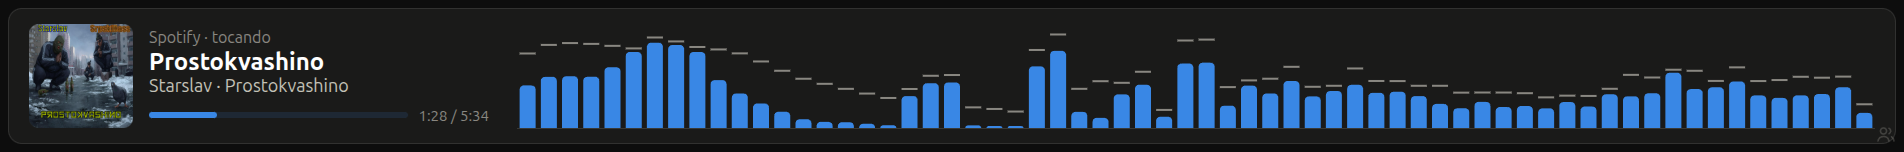
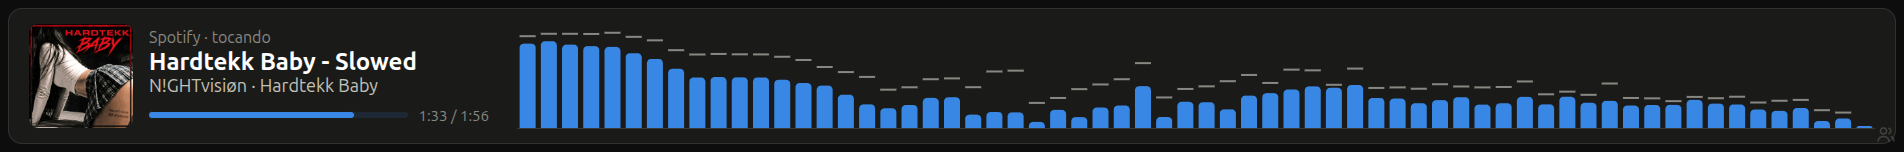
Nomes internos viram toca-do-texugo e prints novos com música tocando
- Config em ~/.config/toca-do-texugo, serviço toca-do-texugo.service,
  atalhos toca-do-texugo.desktop e classe da janela toca-do-texugo
- O texugo não sobe mais na fileira de cima: lá ele cobria o cabeçalho
- Print do README e faixa do visualizador com uma música tocando

diff --git a/index.html b/index.html
@@ -969,7 +969,8 @@ const clamp = (v, a, b) => Math.min(b, Math.max(a, v));
 const M = { x: 300, y: -MH, el: null, dir: 1, state: "fall", until: 0, jump: null, lastBeat: 0, nextFx: 0, blinkUntil: 0, nextBlink: 0, nextSweat: 0 };
 
 function platforms() {
-  const sel = { "page-dash": "#page-dash .card", "page-redes": "#page-redes .card", "page-atalhos": "#page-atalhos .shortcuts button" }[PAGES[page]];
+  // Fileira de cima fica de fora: em cima dela o texugo cobre o cabecalho (volume, carga, uptime)
+  const sel = { "page-dash": "#page-dash .card:not(.tile)", "page-redes": "#page-redes .card", "page-atalhos": "#page-atalhos .shortcuts button" }[PAGES[page]];
   return [...document.querySelectorAll(sel)].filter(el => el.getBoundingClientRect().width > MW + 24);
 }
 function spot(el) {

diff --git a/server.py b/server.py
@@ -1,11 +1,11 @@
 #!/usr/bin/env python3
-"""Painel do PC: servidor local (127.0.0.1) com metricas do sistema e atalhos.
+"""Toca do Texugo: servidor local (127.0.0.1) com metricas do sistema e atalhos.
 
 Metricas: /api/stats (JSON, atualizado 1x/s por uma thread de coleta).
 OneDrive: campo "onedrive" do /api/stats (ver onedrive.py).
 Redes:    /api/redes, contadores do YouTube/Twitch/... (ver redes.py).
 Audio:    /api/audio, PCM s16le mono 24 kHz do monitor da saida padrao (o navegador faz a FFT).
-Atalhos:  POST /api/run/<id>, somente ids definidos em ~/.config/pc-dashboard/atalhos.json.
+Atalhos:  POST /api/run/<id>, somente ids definidos em ~/.config/toca-do-texugo/atalhos.json.
 """
 import json
 import os
@@ -25,8 +25,8 @@ from redes import Redes
 
 HOST, PORT = "127.0.0.1", 8787
 BASE = Path(__file__).resolve().parent
-CONFIG = Path.home() / ".config/pc-dashboard/atalhos.json"
-SETTINGS_FILE = Path.home() / ".config/pc-dashboard/config.json"  # coisas da maquina (ver config.exemplo.json)
+CONFIG = Path.home() / ".config/toca-do-texugo/atalhos.json"
+SETTINGS_FILE = Path.home() / ".config/toca-do-texugo/config.json"  # coisas da maquina (ver config.exemplo.json)
 ALLOWED_HOSTS = {f"127.0.0.1:{PORT}", f"localhost:{PORT}"}
 AUDIO_RATE = 24000
 MPRIS = "org.mpris.MediaPlayer2"

diff --git a/redes.py b/redes.py
@@ -1,7 +1,7 @@
 """Contadores das redes sociais pro painel.
 
-Credenciais em ~/.config/pc-dashboard/redes.json (fora do git; relido quando muda).
-Historico diario em ~/.config/pc-dashboard/redes-historico.json (pra "+N hoje" e a tendencia de 30 dias).
+Credenciais em ~/.config/toca-do-texugo/redes.json (fora do git; relido quando muda).
+Historico diario em ~/.config/toca-do-texugo/redes-historico.json (pra "+N hoje" e a tendencia de 30 dias).
 """
 import datetime
 import hashlib
@@ -14,9 +14,9 @@ import urllib.parse
 import urllib.request
 from pathlib import Path
 
-CONF = Path.home() / ".config/pc-dashboard/redes.json"
-HIST = Path.home() / ".config/pc-dashboard/redes-historico.json"
-TOKENS = Path.home() / ".config/pc-dashboard/redes-tokens.json"  # tokens renovados automaticamente
+CONF = Path.home() / ".config/toca-do-texugo/redes.json"
+HIST = Path.home() / ".config/toca-do-texugo/redes-historico.json"
+TOKENS = Path.home() / ".config/toca-do-texugo/redes-tokens.json"  # tokens renovados automaticamente
 HIST_DAYS = 30
 TRACKED = ("followers", "views", "likes")
 

diff --git a/onedrive.py b/onedrive.py
@@ -13,7 +13,7 @@ import time
 from pathlib import Path
 
 CONFIG = Path.home() / ".config/onedrive/config"
-QUOTA_CACHE = Path.home() / ".config/pc-dashboard/onedrive-cota.json"  # sobrevive a reinicios do painel
+QUOTA_CACHE = Path.home() / ".config/toca-do-texugo/onedrive-cota.json"  # sobrevive a reinicios do painel
 QUOTA_EVERY = 3600  # --display-quota reescreve o token do cliente: pouca frequencia
 LOCAL_EVERY = 600
 

diff --git a/README.md b/README.md
@@ -36,8 +36,8 @@ Dashboard em tela cheia que roda num **monitor virtual** do Linux e é transmiti
 | Instagram | Instagram API com login do Instagram | seguidores, likes e comentários somados, posts, último post |
 
 **Texugo** 🦡
-- Anda por cima dos cards e pula de um pro outro, inclusive quando a página muda
-- Dança no ritmo da música, dorme quando fica parado (no print acima ele está cochilando em cima do card de música), sua quando o PC esquenta
+- Anda por cima dos cards (menos a fileira de cima, pra não cobrir o cabeçalho) e pula de um pro outro, inclusive quando a página muda
+- Dança no ritmo da música, dorme quando fica parado, sua quando o PC esquenta
 - Comemora quando entra seguidor novo; tocar nele ganha um coração
 
 **Páginas**: painel → redes → atalhos, trocadas por um botão discreto no canto inferior direito. A página de atalhos volta sozinha pro painel depois de 90 s sem toque.
@@ -67,11 +67,11 @@ Pra mostrar a tela no tablet, usei o [**monitor-virtual-tablet**](https://github
 
 Precisa de Python 3 com `psutil`, `google-chrome`, `wmctrl`, `xrandr`, `curl`, `parec` (PulseAudio/PipeWire), `busctl` (systemd) e `nvidia-smi` pra GPU.
 
-1. Serviço do usuário em `~/.config/systemd/user/pc-dashboard.service`:
+1. Serviço do usuário em `~/.config/systemd/user/toca-do-texugo.service`:
 
    ```ini
    [Unit]
-   Description=Painel do PC (servidor local 127.0.0.1:8787)
+   Description=Toca do Texugo (servidor local 127.0.0.1:8787)
 
    [Service]
    ExecStart=/usr/bin/python3 /caminho/para/toca-do-texugo/server.py
@@ -80,18 +80,18 @@ Precisa de Python 3 com `psutil`, `google-chrome`, `wmctrl`, `xrandr`, `curl`, `
    RestartSec=3s
    ```
 
-2. Pra abrir sozinho ao entrar na sessão, crie `~/.config/autostart/pc-dashboard.desktop` com:
+2. Pra abrir sozinho ao entrar na sessão, crie `~/.config/autostart/toca-do-texugo.desktop` com:
 
    ```ini
    [Desktop Entry]
    Type=Application
-   Name=Painel do PC
+   Name=Toca do Texugo
    Exec=sh -c "sleep 15; bash /caminho/para/toca-do-texugo/abrir-painel.sh"
    X-GNOME-Autostart-enabled=true
    NoDisplay=true
    ```
 
-3. Máquina: copie `config.exemplo.json` pra `~/.config/pc-dashboard/config.json` e ajuste (tudo é opcional):
+3. Máquina: copie `config.exemplo.json` pra `~/.config/toca-do-texugo/config.json` e ajuste (tudo é opcional):
 
    | Chave | Pra que serve | Sem ela |
    |---|---|---|
@@ -100,13 +100,13 @@ Precisa de Python 3 com `psutil`, `google-chrome`, `wmctrl`, `xrandr`, `curl`, `
    | `discos` | lista de `{caminho, nome}` mostrados no card de discos | só `/` |
    | `cpu_tdp_w` | TDP da CPU pra barra de consumo | mostra só os watts |
 
-4. Atalhos: copie `atalhos.exemplo.json` pra `~/.config/pc-dashboard/atalhos.json` e ajuste. Cada item é `{id, label, icon, cmd}`, e só os ids desse arquivo podem ser executados.
+4. Atalhos: copie `atalhos.exemplo.json` pra `~/.config/toca-do-texugo/atalhos.json` e ajuste. Cada item é `{id, label, icon, cmd}`, e só os ids desse arquivo podem ser executados.
 
-Depois de mudar `server.py`, `redes.py` ou `onedrive.py`: `systemctl --user restart pc-dashboard.service`.
+Depois de mudar `server.py`, `redes.py` ou `onedrive.py`: `systemctl --user restart toca-do-texugo.service`.
 
 ## Configurando as redes
 
-As credenciais ficam em `~/.config/pc-dashboard/redes.json` (`chmod 600`, **fora do repo**). O arquivo é relido quando muda, sem precisar reiniciar:
+As credenciais ficam em `~/.config/toca-do-texugo/redes.json` (`chmod 600`, **fora do repo**). O arquivo é relido quando muda, sem precisar reiniciar:
 
 ```json
 {
@@ -129,13 +129,13 @@ Se a URI cadastrada no TikTok for outra, informe o endereço exato em `tiktok.re
 
 | Arquivo | O que é |
 |---|---|
-| `~/.config/pc-dashboard/config.json` | monitor, rede, discos e TDP da máquina |
-| `~/.config/pc-dashboard/redes.json` | credenciais das redes |
-| `~/.config/pc-dashboard/redes-tokens.json` | tokens renovados (Instagram, TikTok) |
-| `~/.config/pc-dashboard/redes-historico.json` | histórico diário pro "+N hoje" e a tendência |
-| `~/.config/pc-dashboard/atalhos.json` | atalhos da página de atalhos |
-| `~/.config/pc-dashboard/onedrive-cota.json` | última cota lida do OneDrive (cache de 1 h) |
-| `~/.config/pc-dashboard/chrome/` | perfil do Chrome do painel |
+| `~/.config/toca-do-texugo/config.json` | monitor, rede, discos e TDP da máquina |
+| `~/.config/toca-do-texugo/redes.json` | credenciais das redes |
+| `~/.config/toca-do-texugo/redes-tokens.json` | tokens renovados (Instagram, TikTok) |
+| `~/.config/toca-do-texugo/redes-historico.json` | histórico diário pro "+N hoje" e a tendência |
+| `~/.config/toca-do-texugo/atalhos.json` | atalhos da página de atalhos |
+| `~/.config/toca-do-texugo/onedrive-cota.json` | última cota lida do OneDrive (cache de 1 h) |
+| `~/.config/toca-do-texugo/chrome/` | perfil do Chrome do painel |
 
 ## Segurança
 
